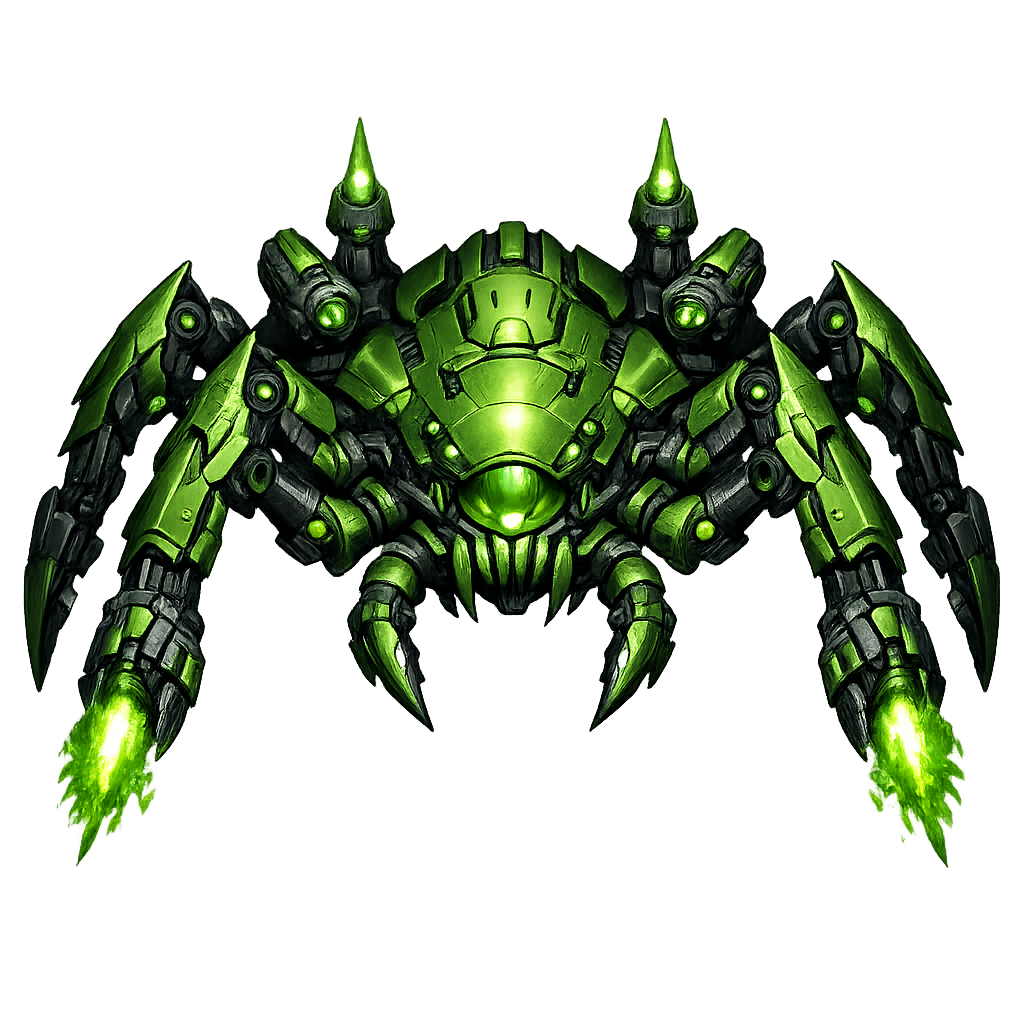
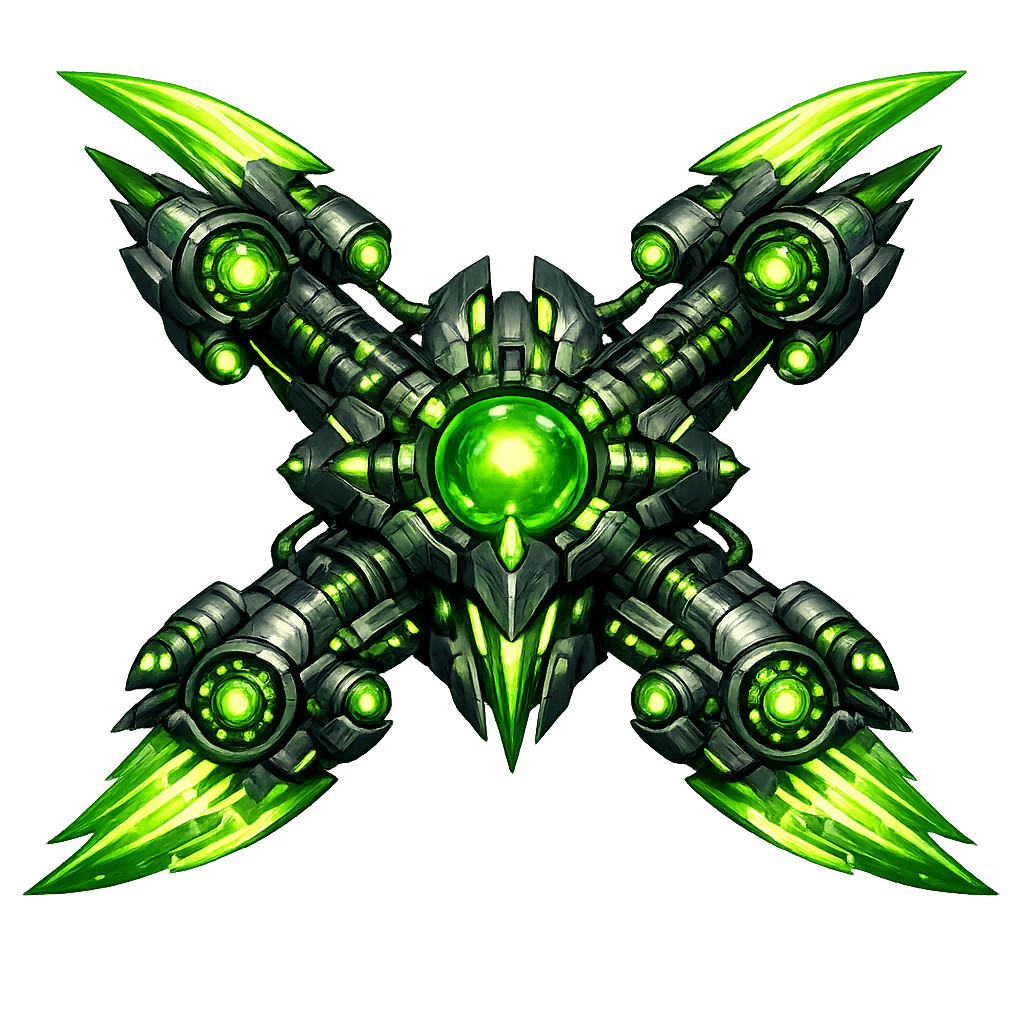
Boss 4 wheel phase with spin rain; bump SW cache version

diff --git a/ThoriumGap_JS/ThoriumGap.js b/ThoriumGap_JS/ThoriumGap.js
@@ -1830,19 +1830,19 @@
   }
 
   const THEMES = [
-    theme({ name: 'Thorium Rift', subtitle: 'None Shall Pass', skyTop: '#07111f', skyBottom: '#274062', glow: '#9bc5ff', accent: '#6d9cff', accent2: '#d5e4ff', forms: ['line', 'fan', 'rain'], enemyKinds: ['drifter', 'swarm', 'looper'], atmosphere: 'leaves', music: { bpm: 112, root: 220, pattern: [0, 3, 5, 7, 10, 7, 5, 3] }, boss: { name: 'Red Guardian', emoji: E.apple, hp: 400, size: 320, color: '#9ec2ff', flipWhenMovingRight: false, phases: [phase(7, 'hover', 'aimed'), phase(7, 'sweep', 'rain'), phase(8, 'low', 'ring')] } }),
-    theme({ name: 'Broken Shore', subtitle: 'First of His Name', skyTop: '#061b1b', skyBottom: '#1f4d49', glow: '#8ff7ff', accent: '#58d7c6', accent2: '#c8fff2', forms: ['swarm', 'pair', 'arc'], enemyKinds: ['looper', 'bomber', 'sniper'], atmosphere: 'pollen', music: { bpm: 126, root: 246, pattern: [0, 2, 4, 7, 9, 7, 4, 2] }, boss: { name: 'Rocket Baron', emoji: E.bee, hp: 500, size: 420, color: '#93f0e8', flipWhenMovingRight: true, phases: [phase(7, 'hover', 'fan'), phase(7.5, 'sweep', 'summon'), phase(8, 'low', 'ring')] } }),
-    theme({ name: 'Growling Space', subtitle: 'The Gilded Pouncer', skyTop: '#1b1730', skyBottom: '#53265f', glow: '#e8d124', accent: '#ffe77c', accent2: '#fff5d0', forms: ['fan', 'rain', 'cross'], enemyKinds: ['drifter', 'looper', 'bomber'], atmosphere: 'sprinkles', music: { bpm: 136, root: 262, pattern: [0, 4, 7, 12, 7, 4, 5, 9] }, boss: { name: 'Kharza Prime', emoji: E.donut, hp: 600, size:425 , color: '#fffa9b', flipWhenMovingRight: true, phases: [phase(7, 'hover', 'fan'), phase(7, 'sweep', 'ring'), phase(8, 'low', 'rain')] }}),
-    theme({ name: 'Spinners Den', subtitle: 'Hunger Without Limit', skyTop: '#0f1620', skyBottom: '#4d5867', glow: '#96c9ff', accent: '#9fb2c6', accent2: '#d0e0ef', forms: ['line', 'pair', 'cross'], enemyKinds: ['looper', 'sniper', 'bomber'], atmosphere: 'sparks', music: { bpm: 118, root: 196, pattern: [0, 0, 7, 5, 4, 5, 7, 10] }, boss: { name: 'Silken Spinner', emoji: E.gear, hp: 700, size: 430, color: '#d0d9e1', flipWhenMovingRight: false, phases: [phase(7, 'sweep', 'ring'), phase(7.5, 'dash', 'summon'), phase(8, 'hover', 'fan')] }, asteroidDensity: 2  }),
-    theme({ name: 'Deadlight Harbor', subtitle: 'Master of the Soulless Crew', skyTop: '#06111d', skyBottom: '#532a40', glow: '#ffbf8a', accent: '#e0a06c', accent2: '#ffc8a1', forms: ['rain', 'arc', 'swarm'], enemyKinds: ['swarm', 'sniper', 'drifter'], atmosphere: 'motes', music: { bpm: 108, root: 196, pattern: [0, 5, 7, 10, 7, 5, 3, 5] }, boss: { name: 'Captain Thaddeus', emoji: E.lantern, hp: 900, size: 435, color: '#f6b46d', flipWhenMovingRight: true, phases: [phase(7, 'hover', 'aimed'), phase(7.5, 'sweep', 'beam'), phase(8, 'low', 'ring')] } }),
-    theme({ name: 'Elysium Sea', subtitle: 'The Steed of Neptune', skyTop: '#220c0c', skyBottom: '#6d3a13', glow: '#ffd77a', accent: '#c47a19', accent2: '#ffd59f', forms: ['swarm', 'fan', 'pair'], enemyKinds: ['diver', 'swarm', 'sniper'], atmosphere: 'embers', music: { bpm: 132, root: 246, pattern: [0, 2, 3, 7, 10, 7, 3, 2] }, boss: { name: 'Lunar Horse', emoji: E.bee, hp: 1100, size: 440, color: '#e4ba6a', flipWhenMovingRight: true, phases: [phase(7, 'hover', 'fan'), phase(8, 'dash', 'rain'), phase(7.5, 'sweep', 'summon')] } }),
-    theme({ name: 'Shard Expanse', subtitle: 'The Base of Lost Hope', skyTop: '#07142f', skyBottom: '#264e88', glow: '#b0fbff', accent: '#95d5ff', accent2: '#d6c4ff', forms: ['ring', 'line', 'arc'], enemyKinds: ['swarm', 'bomber', 'elite', 'looper'], atmosphere: 'shards', music: { bpm: 120, root: 233, pattern: [0, 4, 7, 11, 7, 4, 9, 7] }, boss: { name: 'Shard Base One', emoji: E.gem, hp: 1400, size: 445, color: '#c9f6ff', flipWhenMovingRight: false, phases: [phase(7, 'hover', 'fan'), phase(7.5, 'sweep', 'ring'), phase(8, 'low', 'beam')] }, asteroidDensity: 2 }),
-    theme({ name: 'Dark Waters', subtitle: 'Prey on the Weak', skyTop: '#180709', skyBottom: '#6c2919', glow: '#ffab5b', accent: '#de6f2b', accent2: '#ffd08a', forms: ['rain', 'line', 'swarm'], enemyKinds: ['spinner', 'drifter', 'diver', 'splitter'], atmosphere: 'embers', music: { bpm: 140, root: 220, pattern: [0, 3, 7, 10, 7, 3, 5, 10] }, boss: { name: 'Cephid Hunter', emoji: E.fire, hp: 1800, size: 450, color: '#ff9e53', flipWhenMovingRight: true, phases: [phase(7, 'hover', 'rain'), phase(7.5, 'sweep', 'beam'), phase(8, 'low', 'wall')] } }),
-    theme({ name: 'Domain of Klaatu', subtitle: 'The Earth Stands Still', skyTop: '#07111d', skyBottom: '#2d3d61', glow: '#95d7ff', accent: '#aebfe0', accent2: '#95d7ff', forms: ['line', 'wave', 'pair'], enemyKinds: ['elite', 'diver', 'splitter' ], atmosphere: 'stardust', music: { bpm: 106, root: 185, pattern: [0, 7, 12, 7, 10, 7, 5, 3] }, boss: { name: 'Klaatu', emoji: E.moon, hp: 2300, size: 455, color: '#c3d6ff', flipWhenMovingRight: false, phases: [phase(7, 'hover', 'summon'), phase(7.5, 'dash', 'beam'), phase(8, 'sweep', 'ring')] }, asteroidDensity: 2 }),
-    theme({ name: 'Sunken Bastion', subtitle: 'Here Drowned Men Weep', skyTop: '#07101c', skyBottom: '#2d1a5a', glow: '#82f6ff', accent: '#6eeaff', accent2: '#c8fff2', forms: ['wave', 'cross', 'pair'], enemyKinds: ['looper', 'spinner', 'swarm', 'bomber'], atmosphere: 'neon', music: { bpm: 144, root: 220, pattern: [0, 7, 12, 10, 7, 4, 9, 12] }, boss: { name: 'Cyberphish', emoji: E.bolt, hp: 3000, size: 460, color: '#8fefff', flipWhenMovingRight: true, phases: [phase(7, 'sweep', 'wall'), phase(7.5, 'dash', 'aimed'), phase(8, 'hover', 'ring')] } }),
-    theme({ name: 'Mirrorwing Expanse', subtitle: 'The Mothership Moth', skyTop: '#0a0c14', skyBottom: '#403f55', glow: '#f0f3ff', accent: '#b6bfd6', accent2: '#9e8e5e', forms: ['line', 'cross', 'wave'], enemyKinds: ['looper', 'sniper', 'elite'], atmosphere: 'chess', music: { bpm: 122, root: 196, pattern: [0, 3, 7, 10, 7, 3, 5, 7] }, boss: { name: 'Aurelion Vane', emoji: E.queen, hp: 3900, size: 465, color: '#e7ecff', flipWhenMovingRight: false, phases: [phase(7, 'hover', 'aimed'), phase(7.5, 'dash', 'summon'), phase(8, 'sweep', 'ring')] } }),
-    theme({ name: 'Crushing Depths', subtitle: 'Hunger for Sunlight', skyTop: '#0c1821', skyBottom: '#344c84', glow: '#d7f4ff', accent: '#9cc7ff', accent2: '#d7f4ff', forms: ['rain', 'line', 'swarm'], enemyKinds:  ['spinner', 'diver', 'swarm', 'looper'], atmosphere: 'rain', music: { bpm: 128, root: 196, pattern: [0, 4, 7, 10, 7, 4, 2, 5] }, boss: { name: 'Deep Gulper', emoji: E.cloud, hp: 5100, size: 470, color: '#d3edff', flipWhenMovingRight: true, phases: [phase(7, 'hover', 'fan'), phase(7.5, 'sweep', 'rain'), phase(8, 'low', 'ring')] }, asteroidDensity: 3 }),
-    theme({ name: 'Thorium Gap', subtitle: 'Final Descent', skyTop: '#0f081b', skyBottom: '#5b3d18', glow: '#ffe78a', accent: '#ffd77a', accent2: '#ffffff', forms: ['ring', 'fan', 'wave'], enemyKinds: ['elite', 'sniper', 'spinner', 'looper'], atmosphere: 'nova', music: { bpm: 152, root: 262, pattern: [0, 4, 7, 12, 15, 12, 7, 4] }, boss: { name: 'Unnamed Horror', emoji: E.sun, hp: 10000, size: 512, color: '#fff0bd', flipWhenMovingRight: false, phases: [phase(6.5, 'hover', 'aimed'), phase(6.5, 'sweep', 'ring'), phase(6.5, 'low', 'summon'), phase(6.5, 'dash', 'beam'), phase(7.5, 'low', 'wall')] } })
+    theme({ name: 'Thorium Rift', subtitle: 'None Shall Pass', skyTop: '#000000', skyBottom: '#000000', glow: '#9bc5ff', accent: '#6d9cff', accent2: '#d5e4ff', forms: ['line', 'fan', 'rain'], enemyKinds: ['drifter', 'swarm', 'looper'], atmosphere: 'leaves', music: { bpm: 112, root: 220, pattern: [0, 3, 5, 7, 10, 7, 5, 3] }, boss: { name: 'Red Guardian', emoji: E.apple, hp: 400, size: 320, color: '#9ec2ff', flipWhenMovingRight: false, phases: [phase(7, 'hover', 'aimed'), phase(7, 'sweep', 'rain'), phase(8, 'low', 'ring')] } }),
+    theme({ name: 'Broken Shore', subtitle: 'First of His Name', skyTop: '#000000', skyBottom: '#000000', glow: '#8ff7ff', accent: '#58d7c6', accent2: '#c8fff2', forms: ['swarm', 'pair', 'arc'], enemyKinds: ['looper', 'bomber', 'sniper'], atmosphere: 'pollen', music: { bpm: 126, root: 246, pattern: [0, 2, 4, 7, 9, 7, 4, 2] }, boss: { name: 'Rocket Baron', emoji: E.bee, hp: 500, size: 420, color: '#93f0e8', flipWhenMovingRight: true, phases: [phase(7, 'hover', 'fan'), phase(7.5, 'sweep', 'summon'), phase(8, 'low', 'ring')] } }),
+    theme({ name: 'Growling Space', subtitle: 'The Gilded Pouncer', skyTop: '#000000', skyBottom: '#000000', glow: '#e8d124', accent: '#ffe77c', accent2: '#fff5d0', forms: ['fan', 'rain', 'cross'], enemyKinds: ['drifter', 'looper', 'bomber'], atmosphere: 'sprinkles', music: { bpm: 136, root: 262, pattern: [0, 4, 7, 12, 7, 4, 5, 9] }, boss: { name: 'Kharza Prime', emoji: E.donut, hp: 600, size:425 , color: '#fffa9b', flipWhenMovingRight: true, phases: [phase(7, 'hover', 'fan'), phase(7, 'sweep', 'ring'), phase(8, 'low', 'rain')] }}),
+    theme({ name: 'Spinners Den', subtitle: 'Hunger Without Limit', skyTop: '#000000', skyBottom: '#000000', glow: '#96c9ff', accent: '#9fb2c6', accent2: '#d0e0ef', forms: ['line', 'pair', 'cross'], enemyKinds: ['looper', 'sniper', 'bomber'], atmosphere: 'sparks', music: { bpm: 118, root: 196, pattern: [0, 0, 7, 5, 4, 5, 7, 10] }, boss: { name: 'Silken Spinner', emoji: E.gear, hp: 700, size: 430, color: '#d0d9e1', flipWhenMovingRight: false, phases: [phase(7, 'wheel', 'spinrain'), phase(7.5, 'dash', 'summon'), phase(8, 'hover', 'fan')] }, asteroidDensity: 2  }),
+    theme({ name: 'Deadlight Harbor', subtitle: 'Master of the Soulless Crew', skyTop: '#000000', skyBottom: '#532a40', glow: '#ffbf8a', accent: '#e0a06c', accent2: '#ffc8a1', forms: ['rain', 'arc', 'swarm'], enemyKinds: ['swarm', 'sniper', 'drifter'], atmosphere: 'motes', music: { bpm: 108, root: 196, pattern: [0, 5, 7, 10, 7, 5, 3, 5] }, boss: { name: 'Captain Thaddeus', emoji: E.lantern, hp: 900, size: 435, color: '#f6b46d', flipWhenMovingRight: true, phases: [phase(7, 'hover', 'aimed'), phase(7.5, 'sweep', 'beam'), phase(8, 'low', 'ring')] } }),
+    theme({ name: 'Elysium Sea', subtitle: 'The Steed of Neptune', skyTop: '#000000', skyBottom: '#000000', glow: '#ffd77a', accent: '#c47a19', accent2: '#ffd59f', forms: ['swarm', 'fan', 'pair'], enemyKinds: ['diver', 'swarm', 'sniper'], atmosphere: 'embers', music: { bpm: 132, root: 246, pattern: [0, 2, 3, 7, 10, 7, 3, 2] }, boss: { name: 'Lunar Horse', emoji: E.bee, hp: 1100, size: 440, color: '#e4ba6a', flipWhenMovingRight: true, phases: [phase(7, 'hover', 'fan'), phase(8, 'dash', 'rain'), phase(7.5, 'sweep', 'summon')] } }),
+    theme({ name: 'Shard Expanse', subtitle: 'The Base of Lost Hope', skyTop: '#000000', skyBottom: '#000000', glow: '#b0fbff', accent: '#95d5ff', accent2: '#d6c4ff', forms: ['ring', 'line', 'arc'], enemyKinds: ['swarm', 'bomber', 'elite', 'looper'], atmosphere: 'shards', music: { bpm: 120, root: 233, pattern: [0, 4, 7, 11, 7, 4, 9, 7] }, boss: { name: 'Shard Base One', emoji: E.gem, hp: 1400, size: 445, color: '#c9f6ff', flipWhenMovingRight: false, phases: [phase(7, 'hover', 'fan'), phase(7.5, 'sweep', 'ring'), phase(8, 'low', 'beam')] }, asteroidDensity: 2 }),
+    theme({ name: 'Dark Waters', subtitle: 'Prey on the Weak', skyTop: '#000000', skyBottom: '#000000', glow: '#ffab5b', accent: '#de6f2b', accent2: '#ffd08a', forms: ['rain', 'line', 'swarm'], enemyKinds: ['spinner', 'drifter', 'diver', 'splitter'], atmosphere: 'embers', music: { bpm: 140, root: 220, pattern: [0, 3, 7, 10, 7, 3, 5, 10] }, boss: { name: 'Cephid Hunter', emoji: E.fire, hp: 1800, size: 450, color: '#ff9e53', flipWhenMovingRight: true, phases: [phase(7, 'hover', 'rain'), phase(7.5, 'sweep', 'beam'), phase(8, 'low', 'wall')] } }),
+    theme({ name: 'Domain of Klaatu', subtitle: 'The Earth Stands Still', skyTop: '#000000', skyBottom: '#000000', glow: '#95d7ff', accent: '#aebfe0', accent2: '#95d7ff', forms: ['line', 'wave', 'pair'], enemyKinds: ['elite', 'diver', 'splitter' ], atmosphere: 'stardust', music: { bpm: 106, root: 185, pattern: [0, 7, 12, 7, 10, 7, 5, 3] }, boss: { name: 'Klaatu', emoji: E.moon, hp: 2300, size: 455, color: '#c3d6ff', flipWhenMovingRight: false, phases: [phase(7, 'hover', 'summon'), phase(7.5, 'dash', 'beam'), phase(8, 'sweep', 'ring')] }, asteroidDensity: 2 }),
+    theme({ name: 'Sunken Bastion', subtitle: 'Here Drowned Men Weep', skyTop: '#000000', skyBottom: '#000000', glow: '#82f6ff', accent: '#6eeaff', accent2: '#c8fff2', forms: ['wave', 'cross', 'pair'], enemyKinds: ['looper', 'spinner', 'swarm', 'bomber'], atmosphere: 'neon', music: { bpm: 144, root: 220, pattern: [0, 7, 12, 10, 7, 4, 9, 12] }, boss: { name: 'Cyberphish', emoji: E.bolt, hp: 3000, size: 460, color: '#8fefff', flipWhenMovingRight: true, phases: [phase(7, 'sweep', 'wall'), phase(7.5, 'dash', 'aimed'), phase(8, 'hover', 'ring')] } }),
+    theme({ name: 'Mirrorwing Expanse', subtitle: 'The Mothership Moth', skyTop: '#000000', skyBottom: '#000000', glow: '#f0f3ff', accent: '#b6bfd6', accent2: '#9e8e5e', forms: ['line', 'cross', 'wave'], enemyKinds: ['looper', 'sniper', 'elite'], atmosphere: 'chess', music: { bpm: 122, root: 196, pattern: [0, 3, 7, 10, 7, 3, 5, 7] }, boss: { name: 'Aurelion Vane', emoji: E.queen, hp: 3900, size: 465, color: '#e7ecff', flipWhenMovingRight: false, phases: [phase(7, 'hover', 'aimed'), phase(7.5, 'dash', 'summon'), phase(8, 'sweep', 'ring')] } }),
+    theme({ name: 'Crushing Depths', subtitle: 'Hunger for Sunlight', skyTop: '#000000', skyBottom: '#000000', glow: '#d7f4ff', accent: '#9cc7ff', accent2: '#d7f4ff', forms: ['rain', 'line', 'swarm'], enemyKinds:  ['spinner', 'diver', 'swarm', 'looper'], atmosphere: 'rain', music: { bpm: 128, root: 196, pattern: [0, 4, 7, 10, 7, 4, 2, 5] }, boss: { name: 'Deep Gulper', emoji: E.cloud, hp: 5100, size: 470, color: '#d3edff', flipWhenMovingRight: true, phases: [phase(7, 'hover', 'fan'), phase(7.5, 'sweep', 'rain'), phase(8, 'low', 'ring')] }, asteroidDensity: 3 }),
+    theme({ name: 'Thorium Gap', subtitle: 'Final Descent', skyTop: '#000000', skyBottom: '#000000', glow: '#ffe78a', accent: '#ffd77a', accent2: '#ffffff', forms: ['ring', 'fan', 'wave'], enemyKinds: ['elite', 'sniper', 'spinner', 'looper'], atmosphere: 'nova', music: { bpm: 152, root: 262, pattern: [0, 4, 7, 12, 15, 12, 7, 4] }, boss: { name: 'Unnamed Horror', emoji: E.sun, hp: 10000, size: 512, color: '#fff0bd', flipWhenMovingRight: false, phases: [phase(6.5, 'hover', 'aimed'), phase(6.5, 'sweep', 'ring'), phase(6.5, 'low', 'summon'), phase(6.5, 'dash', 'beam'), phase(7.5, 'low', 'wall')] } })
   ];
 
   const FINAL_LEVEL_ENEMY_KINDS = (function () {
@@ -3290,6 +3290,7 @@
       maxHp: bossHp,
       phases: b.phases, phaseIndex: 0, phaseClock: 0, age: 0,
       fireClock: 0, motionClock: 0, state: {}, hitFlash: 0, glowBoost: 0, dead: false,
+      wheelRot: 0,
       clawGuard: 0, clawGuardDelay: 0,
       size: bossSize,
       flipWhenMovingRight: b.flipWhenMovingRight !== false,
@@ -3976,6 +3977,19 @@
         spawnBullet('enemy', clamp(b.x + rand(-160, 160), 24, view.w - 24), -20, rand(-22, 22), rand(220, 280), { r: 6, color: b.color, damage: 1, kind: 'rain', ay: 18, life: 10, sourceKind: 'boss', sourceName: b.name });
       }
     },
+    spinrain: function (b) {
+      b.fireClock -= currentDt;
+      if (b.fireClock > 0) return;
+      b.fireClock = shotDelay(b.hp < b.maxHp * 0.5 ? 0.20 : 0.32);
+      const count = b.hp < b.maxHp * 0.5 ? 5 : 4;
+      for (let i = 0; i < count; i++) {
+        const a = Math.PI * 0.5 + rand(-0.72, 0.72);
+        const speed = rand(220, 310);
+        const vx = Math.cos(a) * speed + rand(-20, 20) + (b.vx || 0) * 0.18;
+        const vy = Math.max(170, Math.sin(a) * speed);
+        spawnBullet('enemy', b.x + rand(-18, 18), b.y + rand(8, 30), vx, vy, { r: 6, color: b.color, damage: 1, kind: 'rain', ay: 22, life: 10, sourceKind: 'boss', sourceName: b.name });
+      }
+    },
     summon: function (b) {
       b.fireClock -= currentDt;
       if (b.fireClock > 0) return;
@@ -4034,6 +4048,17 @@
     } else if (phaseDef.motion === 'sweep') {
       tx = cx + Math.sin(b.age * 0.48 + b.phaseIndex) * 240;
       ty = 132 + Math.sin(b.age * 1.3) * 20;
+    } else if (phaseDef.motion === 'wheel') {
+      tx = cx + Math.sin(b.age * 0.66 + b.phaseIndex * 0.35) * 210;
+      ty = 140 + Math.sin(b.age * 1.5) * 12;
+      const phaseDur = Math.max(0.001, phaseDef.dur || 1);
+      const half = phaseDur * 0.5;
+      const t = clamp(b.phaseClock, 0, phaseDur);
+      if (t <= half) {
+        b.wheelRot = -TAU * (t / Math.max(0.001, half));
+      } else {
+        b.wheelRot = -TAU + TAU * ((t - half) / Math.max(0.001, half));
+      }
     } else if (phaseDef.motion === 'low') {
       tx = cx + Math.sin(b.age * 0.9) * 180;
       ty = 170 + Math.sin(b.age * 1.0) * 16;
@@ -4042,6 +4067,7 @@
       tx = b.state.dashTarget;
       ty = 148 + Math.sin(b.age * 2.1) * 14;
     }
+    if (phaseDef.motion !== 'wheel') b.wheelRot = smooth(b.wheelRot || 0, 0, 7.0, dt);
     ty += Number.isFinite(b.yOffset) ? b.yOffset : 0;
     const prevX = b.x;
     const prevY = b.y;
@@ -6294,7 +6320,7 @@
   }
 
   function finalBossBodyRot(b) {
-    return Math.sin(b.age * 0.8) * 0.04 + clamp((b.vx || 0) / 900, -0.02, 0.02);
+    return Math.sin(b.age * 0.8) * 0.04 + clamp((b.vx || 0) / 900, -0.02, 0.02) + (Number.isFinite(b.wheelRot) ? b.wheelRot : 0);
   }
 
   function getFinalBossClawParts(b, bodyRot) {

diff --git a/ThoriumGap_JS/sw.js b/ThoriumGap_JS/sw.js
@@ -1,6 +1,6 @@
 'use strict';
 
-var APP_VERSION = 'thoriumgap-v28'; // BUMP ME
+var APP_VERSION = 'thoriumgap-v29'; // BUMP ME
 var CACHE_NAME = APP_VERSION;
 var APP_SHELL = [
   './ThoriumGap.html',
